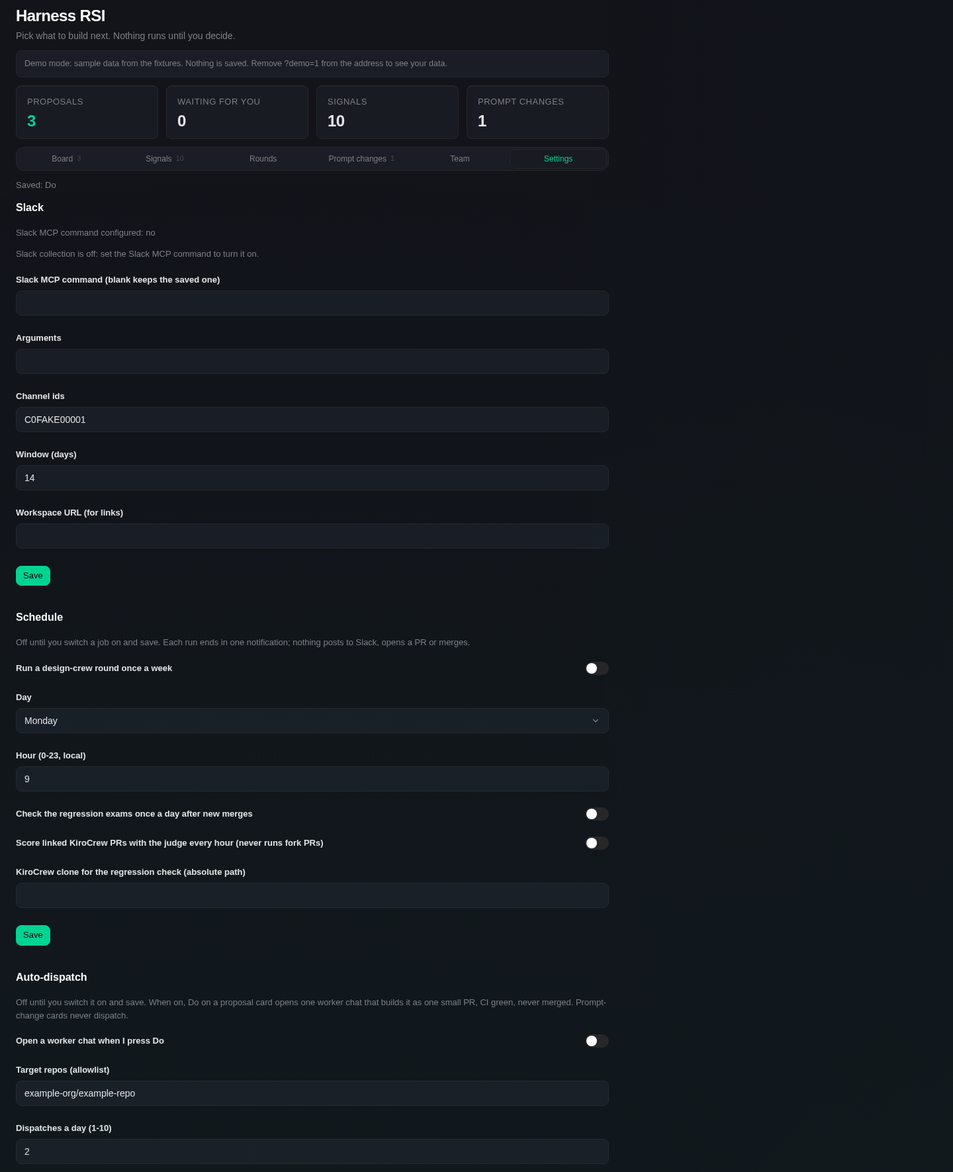
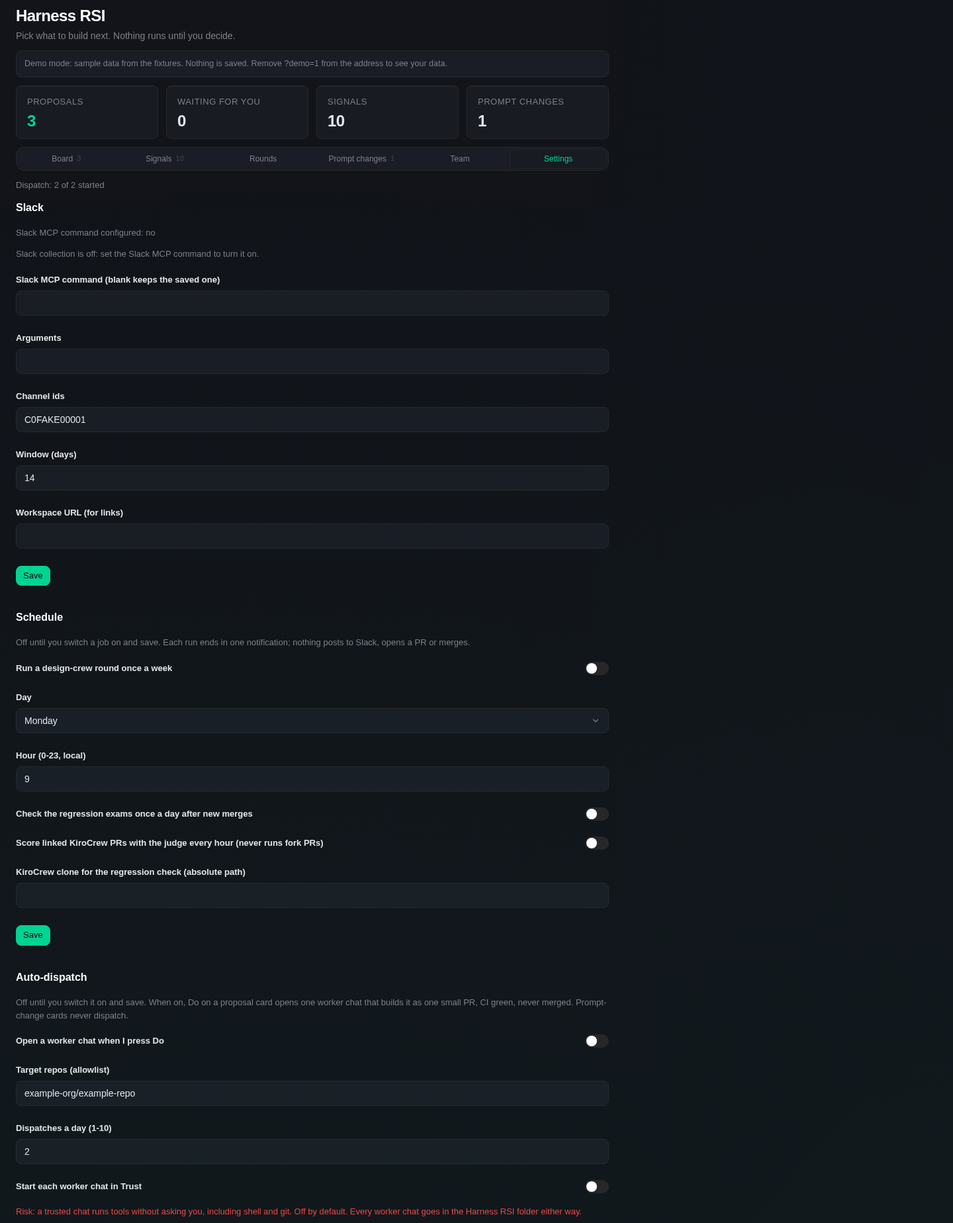
fix(dispatch): file every RSI chat in one folder; trust only on the owner's switch
App dispatch (backend/dispatch.py) opened worker chats at the top level and
untrusted. Each chat is now filed at birth into the top-level "Harness RSI"
folder (found by name, created once), and set to Trust before the seed only
when the new owner setting trust_dispatched is on (default off, risk line in
Settings). A refused Trust deletes the empty chat and fails the dispatch, so
no untrusted worker starts. The manifest declares permissions.sessionApproval
for that one mode change; enabling the update needs the owner's re-consent.

The lead asks the owner to confirm Trust before its first session_create and
opens nothing until they say yes; it files lanes into
"Harness RSI/rounds/<round>", and each lane files its workers into
"Harness RSI/rounds/<round>/<lane>".

diff --git a/tests/backend/test_dispatch.py b/tests/backend/test_dispatch.py
@@ -30,8 +30,8 @@ def opened(tmp_path, monkeypatch):
     (tmp_path / "proposals.json").write_text(json.dumps(PROPOSALS))
     seen = []
 
-    async def fake_open(base, name, title, text):
-        seen.append({"base": base, "name": name, "title": title, "text": text})
+    async def fake_open(base, name, title, text, trust=False):
+        seen.append({"base": base, "name": name, "title": title, "text": text, "trust": trust})
         return name
 
     monkeypatch.setattr(dispatch, "open_chat", fake_open)
@@ -80,14 +80,14 @@ def test_the_daily_cap_is_honored_and_a_refusal_uses_none_of_it(opened, monkeypa
 def test_a_failed_dispatch_shows_on_the_card_and_may_retry(opened, monkeypatch):
     turn(monkeypatch, ON)
 
-    async def down(*a):
+    async def down(*a, **k):
         raise ConnectionError("gateway refused")
 
     monkeypatch.setattr(dispatch, "open_chat", down)
     failed = do()[1]["dispatch"]
     assert failed["state"] == "error" and failed["error"] == "ConnectionError: gateway refused"
     assert call(routes._outcomes)[1]["dispatches"][0]["error"] == failed["error"]
-    monkeypatch.setattr(dispatch, "open_chat", lambda *a: _done("rsi-retry"))
+    monkeypatch.setattr(dispatch, "open_chat", lambda *a, **k: _done("rsi-retry"))
     assert do(decision="later")[0] == 200 and do()[1]["dispatch"]["session"] == "rsi-retry"
 
 
@@ -122,7 +122,7 @@ def test_a_prompt_change_card_never_dispatches(opened, monkeypatch, tmp_path):
 def test_settings_are_owner_only_and_validated(opened, monkeypatch):
     assert call(routes._dispatch_get)[1]["dispatch"] == dispatch.DEFAULTS
     assert call(routes._dispatch_post, Req({"auto_dispatch": True}, internal_auth=True))[0] == 403
-    for bad in ({"auto_dispatch": "yes"}, {"daily_cap": 0}, {"daily_cap": 11}, {"repos": ["not a repo"]}, {"repos": "o/r"}):
+    for bad in ({"auto_dispatch": "yes"}, {"trust_dispatched": 1}, {"daily_cap": 0}, {"daily_cap": 11}, {"repos": ["not a repo"]}, {"repos": "o/r"}):
         assert call(routes._dispatch_post, Req(bad))[0] == 400, bad
     written = []
     monkeypatch.setattr(dispatch, "write", written.append)
@@ -188,13 +188,13 @@ def test_dispatch_obeys_the_allowlist(opened, monkeypatch):
 
 
 def test_a_failed_open_is_an_error_result_and_may_retry(opened, monkeypatch):
-    async def down(*a):
+    async def down(*a, **k):
         raise ConnectionError("gateway refused")
 
     monkeypatch.setattr(dispatch, "open_chat", down)
     [r] = start(DO)[1]["results"]
     assert r["result"] == "error" and r["reason"] == "ConnectionError: gateway refused" and dispatch.current(DO)["state"] == "error"
-    monkeypatch.setattr(dispatch, "open_chat", lambda *a: _done("rsi-retry"))
+    monkeypatch.setattr(dispatch, "open_chat", lambda *a, **k: _done("rsi-retry"))
     assert start(DO)[1]["results"][0]["session"] == "rsi-retry"
 
 
@@ -209,3 +209,113 @@ def test_auto_dispatch_off_still_starts_nothing_on_do(opened, tmp_path):
     status, body = do(DO)
     assert status == 200 and "dispatch" not in body
     assert opened == [] and not (tmp_path / dispatch.FILE).exists()
+
+
+# Folder and trust: the real open_chat against a stand-in gateway on a loopback socket.
+def gateway(folders, mode_status=200):
+    """Run open_chat against an aiohttp app that records every call; (calls, result-or-exception)."""
+    import asyncio
+
+    from aiohttp import web
+
+    calls = []
+
+    async def rec(request):
+        body = await request.json() if request.can_read_body else None
+        calls.append((request.method, request.path, body))
+        path = request.path
+        if path.endswith("/token"):
+            return web.json_response({"token": "t"})
+        if path == "/api/chat/folders":
+            return web.json_response(folders if request.method == "GET" else {"id": "f-new", **body}, status=200 if request.method == "GET" else 201)
+        if path == "/api/chat/slots":
+            return web.json_response({"key": body["name"]})
+        if path == "/api/chat/mode":
+            return web.json_response({"ok": mode_status == 200, "code": "session_approval_not_granted"}, status=mode_status)
+        return web.json_response({"ok": True})
+
+    async def main():
+        app = web.Application()
+        app.router.add_route("*", "/{tail:.*}", rec)
+        runner = web.AppRunner(app)
+        await runner.setup()
+        site = web.TCPSite(runner, "127.0.0.1", 0)
+        await site.start()
+        port = site._server.sockets[0].getsockname()[1]
+        try:
+            return await dispatch.open_chat(f"http://127.0.0.1:{port}", "rsi-x", "RSI: x", "seed", trust=trust)
+        except Exception as exc:  # noqa: BLE001 - the test reads it
+            return exc
+        finally:
+            await runner.cleanup()
+
+    def run(trust_on):
+        nonlocal trust
+        trust = trust_on
+        return calls, asyncio.run(main())
+
+    trust = False
+    return run
+
+
+@pytest.fixture
+def secret(tmp_path, monkeypatch):
+    (tmp_path / ".app_secret").write_text("s\n")
+    monkeypatch.setattr(dispatch.store, "ROOT", tmp_path)
+
+
+def steps(calls):
+    return [(m, p) for m, p, _ in calls if not p.endswith("/token")]
+
+
+def test_a_chat_is_filed_into_the_existing_rsi_folder_and_not_trusted_by_default(secret):
+    owner = [{"id": "f-sub", "name": "Harness RSI", "parent_id": "f-other"}, {"id": "f-rsi", "name": "harness rsi", "parent_id": ""}]
+    calls, key = gateway(owner)(False)
+    assert key == "rsi-x"
+    assert steps(calls) == [("GET", "/api/chat/folders"), ("POST", "/api/chat/slots"), ("POST", "/api/chat")]
+    assert calls[2][2] == {"name": "rsi-x", "title": "RSI: x", "folder_id": "f-rsi"}  # the top-level one, at birth
+
+
+def test_a_missing_rsi_folder_is_created_once_at_the_top_level(secret):
+    calls, key = gateway([{"id": "f-a", "name": "Other", "parent_id": ""}])(False)
+    assert key == "rsi-x" and ("POST", "/api/chat/folders", {"name": "Harness RSI"}) in calls
+    assert next(b for m, p, b in calls if p == "/api/chat/slots")["folder_id"] == "f-new"
+
+
+def test_trust_on_sets_trust_before_the_seed_is_sent(secret):
+    calls, key = gateway([{"id": "f-rsi", "name": "Harness RSI"}])(True)
+    assert key == "rsi-x"
+    assert steps(calls) == [("GET", "/api/chat/folders"), ("POST", "/api/chat/slots"), ("POST", "/api/chat/mode"), ("POST", "/api/chat")]
+    assert ("POST", "/api/chat/mode", {"mode": "trust", "slot": "rsi-x"}) in calls
+
+
+def test_a_refused_trust_deletes_the_empty_chat_and_sends_no_seed(secret):
+    calls, out = gateway([{"id": "f-rsi", "name": "Harness RSI"}], mode_status=403)(True)
+    assert isinstance(out, RuntimeError) and "Trust was refused (403" in str(out) and "re-enable the app" in str(out)
+    assert steps(calls)[-1] == ("DELETE", "/api/chat/slots/rsi-x") and ("POST", "/api/chat") not in steps(calls)
+
+
+def test_dispatch_asks_for_trust_only_when_the_owner_turned_it_on(opened, monkeypatch):
+    turn(monkeypatch, ON)
+    do()
+    turn(monkeypatch, {**ON, "trust_dispatched": True})
+    do(card=OTHER)
+    assert [o["trust"] for o in opened] == [False, True] and dispatch.DEFAULTS["trust_dispatched"] is False
+
+
+# Path B: the lead and lane conductors file every session they open, and the lead opens none untrusted.
+AGENTS = ROOT / "crew" / "agents"
+
+
+def test_the_lead_checks_trust_first_and_files_its_lanes():
+    lead = (AGENTS / "prompts" / "rsi-lead.md").read_text(encoding="utf-8")
+    assert lead.index("Trust first") < lead.index("1. Open one lane conductor")
+    assert "Open nothing until they answer yes" in lead and 'folder "Harness RSI/rounds/<round>"' in lead
+    assert "before the owner said Trust is on" in lead
+    assert "@kirocrew-core/ask_question" in json.loads((AGENTS / "rsi-lead.json").read_text())["allowedTools"]
+
+
+@pytest.mark.parametrize("lane", ["find", "propose", "exam", "build", "prompt"])
+def test_every_lane_files_its_workers_in_its_own_subfolder(lane):
+    text = (AGENTS / "prompts" / f"rsi-lane-{lane}.md").read_text(encoding="utf-8")
+    assert f'every session_create you make passes folder "Harness RSI/rounds/<round>/{lane}"' in text

diff --git a/backend/dispatch.py b/backend/dispatch.py
@@ -4,8 +4,11 @@ Settings (``auto_dispatch``, the target-repo allowlist, the daily cap) live in t
 owner-only ``POST /dispatch`` writes them. ``POST /dispatch/start`` is the owner's Dispatch button: it
 starts chosen 做 cards whatever ``auto_dispatch`` says, under the same allowlist, cap and single-flight. A dispatch goes through the gateway's ordinary app API with
 this app's own token: ``POST /api/apps/harness-rsi/token`` -> ``POST /api/chat/slots`` (an app-owned
-chat the owner sees in the sidebar) -> ``POST /api/chat`` with the seed; the turn runs on after the
-stream is closed. ``dispatches.jsonl`` holds one row per change; the newest per card is
+chat the owner sees in the sidebar, filed at birth into the top-level ``Harness RSI`` folder, found
+by name through ``GET /api/chat/folders`` or created once) -> ``POST /api/chat`` with the seed; the turn
+runs on after the stream is closed. With the owner's ``trust_dispatched`` setting on (default off) the
+new chat is set to Trust (``POST /api/chat/mode``, needs ``permissions.sessionApproval``) before the seed
+is sent; a refused mode deletes the empty chat and fails the dispatch, so no untrusted worker starts. ``dispatches.jsonl`` holds one row per change; the newest per card is
 current. A card with a pending or open dispatch never dispatches again; a failed one may retry. The
 seed carries the card, its signals, prior art and limits, never an exam: :func:`seed` refuses text
 naming one. Prompt-change cards never come here.
@@ -22,7 +25,8 @@ from . import prompt_changes, settings, store
 
 APP, VAULT_NAME, FILE = "harness-rsi", "harness-rsi.dispatch", "dispatches.jsonl"
 TARGET = "kirodotdev/KiroCrew"  # every card is a KiroCrew change (autoscore.REPO); it must be allowlisted
-DEFAULTS = {"auto_dispatch": False, "repos": [TARGET], "daily_cap": 2}
+DEFAULTS = {"auto_dispatch": False, "repos": [TARGET], "daily_cap": 2, "trust_dispatched": False}
+FOLDER = "Harness RSI"  # every RSI chat lives in this one top-level folder
 MAX_REPOS, MAX_CAP, TIMEOUT_S = 10, 10, 30
 _REPO_RE = re.compile(r"^[A-Za-z0-9_.-]{1,100}/[A-Za-z0-9_.-]{1,100}$")
 _LOCK = threading.Lock()
@@ -31,7 +35,7 @@ _LOCK = threading.Lock()
 def validate(patch, current):
     """``(conf, errors)``: ``patch`` over ``current``; any error refuses the write."""
     new = {**current, **{k: patch[k] for k in DEFAULTS if k in patch}}
-    errors = [] if type(new["auto_dispatch"]) is bool else ["auto_dispatch must be true or false"]
+    errors = [f"{k} must be true or false" for k in ("auto_dispatch", "trust_dispatched") if type(new[k]) is not bool]
     repos = new["repos"]
     if not (isinstance(repos, list) and len(repos) <= MAX_REPOS and all(isinstance(r, str) and _REPO_RE.match(r) for r in repos)):
         errors.append(f"repos must be up to {MAX_REPOS} GitHub repos like owner/name")
@@ -146,8 +150,26 @@ def base_url(request):
     return (f"http://[{host}]" if ":" in host else f"http://{host}") + f":{sock[1]}"
 
 
-async def open_chat(base, name, title, text):
-    """Open one app-owned chat through the gateway's app API and send ``text``; the chat's session key."""
+def folder_id(folders):
+    """The id of the top-level folder named :data:`FOLDER` (any letter case), or None."""
+    return next((str(f["id"]) for f in folders if isinstance(f, dict) and f.get("id") and not f.get("parent_id")
+                 and str(f.get("name") or "").casefold() == FOLDER.casefold()), None)
+
+
+async def _folder(http, base, auth):
+    """The RSI folder's id: the existing one, else one this app creates at the top level."""
+    async with http.get(f"{base}/api/chat/folders", headers=auth) as r:
+        r.raise_for_status()
+        found = folder_id(await r.json())
+    if found:
+        return found
+    async with http.post(f"{base}/api/chat/folders", json={"name": FOLDER}, headers=auth) as r:
+        r.raise_for_status()
+        return str((await r.json())["id"])
+
+
+async def open_chat(base, name, title, text, trust=False):
+    """Open one app-owned chat in the RSI folder, set it to Trust when ``trust``, send ``text``; its key."""
     import aiohttp
 
     secret = (store.ROOT / ".app_secret").read_text(encoding="utf-8").strip()
@@ -155,22 +177,30 @@ async def open_chat(base, name, title, text):
         async with http.post(f"{base}/api/apps/{APP}/token", headers={"X-App-Secret": secret}) as r:
             r.raise_for_status()
             auth = {"Cookie": f"mc_token_{base.rsplit(':', 1)[1]}={(await r.json())['token']}"}
-        async with http.post(f"{base}/api/chat/slots", json={"name": name, "title": title}, headers=auth) as r:
+        folder = await _folder(http, base, auth)
+        async with http.post(f"{base}/api/chat/slots", json={"name": name, "title": title, "folder_id": folder}, headers=auth) as r:
             r.raise_for_status()
             key = (await r.json())["key"]
+        if trust:
+            async with http.post(f"{base}/api/chat/mode", json={"mode": "trust", "slot": key}, headers=auth) as r:
+                refused = None if r.status == 200 else f"{r.status} {(await r.text())[:120]}"
+            if refused:
+                async with http.delete(f"{base}/api/chat/slots/{urllib.parse.quote(key, safe='')}", headers=auth):
+                    pass  # best effort: the chat is empty, nothing ran in it
+                raise RuntimeError(f"Trust was refused ({refused}); re-enable the app on its detail page to grant session control")
         async with http.post(f"{base}/api/chat", json={"message": text, "slot": key}, headers=auth) as r:
             r.raise_for_status()  # accepted: the turn runs on in the gateway after this stream closes
     return key
 
 
-async def _open(request, card, row):
+async def _open(request, card, row, conf):
     """Seed and open the worker chat for a claimed ``row``; the finished row (dispatched or error)."""
     try:
         text = await asyncio.to_thread(lambda: seed(card, store.read_signals(), prior_art(card["id"])))
         if not (base := base_url(request)):
             raise RuntimeError("no gateway address for this request")
         name = f"rsi-{card['id'][5:].replace('_', '-')[:40]}-{now().strftime('%m%d%H%M%S')}"
-        key = await open_chat(base, name, f"RSI: {card['pain'][:60]}", text)
+        key = await open_chat(base, name, f"RSI: {card['pain'][:60]}", text, trust=conf["trust_dispatched"])
         return await asyncio.to_thread(finish, row, key)
     except Exception as exc:  # noqa: BLE001 - the card shows why; the decision itself stands
         return await asyncio.to_thread(finish, row, None, f"{type(exc).__name__}: {str(exc)[:150]}")
@@ -182,7 +212,7 @@ async def on_do(request, card):
     if not conf["auto_dispatch"]:
         return None
     row, outcome = await asyncio.to_thread(claim, card["id"], conf)
-    return await _open(request, card, row) if outcome == "started" else row
+    return await _open(request, card, row, conf) if outcome == "started" else row
 
 
 def chat_link(session):
@@ -215,7 +245,7 @@ async def start(request, card_ids):
         elif outcome == "not_allowed":
             out.append({"id": cid, "result": "error", "reason": row["error"]})
         else:
-            done = await _open(request, card, row)
+            done = await _open(request, card, row, conf)
             out.append({"id": cid, "result": "error", "reason": done["error"], "row": done} if done["state"] == "error"
                        else {"id": cid, "result": "started", "session": done["session"], "link": chat_link(done["session"]), "row": done})
     return out

diff --git a/tests/ui/test_ui.py b/tests/ui/test_ui.py
@@ -32,6 +32,8 @@ def test_manifest_is_opt_in_with_no_automatic_actions():
     # no Slack Radar route; /api/chat only for opt-in auto-dispatch, which opens app-owned chats (backend.dispatch)
     assert perms["api"] == ["/api/apps/harness-rsi", "/api/apps/harness-rsi/*", "/api/chat"]
     assert not any(perms[k] for k in ("events", "mcpTools", "storage", "spawn")) and perms["cron"] is True
+    # session control only so a dispatched chat can start in Trust, and only when the owner's trust_dispatched is on
+    assert perms["sessionApproval"] is True
     assert (ROOT / "ui" / m["ui"]["entry"]).is_file()
     assert [p["route"] for p in m["ui"]["pages"]] == ["/apps/harness-rsi"]
 

diff --git a/README.md b/README.md
@@ -40,7 +40,7 @@ Closing the loop (outcome ledger):
 - `$HARNESS_RSI_DATA/outcomes.jsonl` holds one `schemas/outcome.schema.json` row per card and product PR: the decision, the PR, its merge sha, the judge's base and head runs, the exams promoted on merge and every post-merge regress result for those exams. Rows are appended whole; the newest per `(card_id, pr)` is current. `GET /outcomes` reads it and each card shows its PRs' scores; `POST /outcomes/link {proposal_id, pr}` links a card to a KiroCrew PR from the board.
 - `python -m backend.autoscore --kirocrew KC` reads the 50 newest KiroCrew PRs and every linked one in one GraphQL call (read-only, stops below 200 API points), links a PR whose title or body names a card id, and when a linked PR's head moved runs the card's exams (its `exam_ids` plus exams written for its signals) on the base and on the head in throwaway worktrees. On merge it promotes those exams to regression and runs the regression suite on the merge commit. Fork PRs are linked but never run. Paired metrics come from `$HARNESS_RSI_DATA/metrics/<owner>__<repo>__<n>.json` (`judge.metrics_in` output) when one exists. The board's Score PRs button (`POST /score/run`) starts it as a single-flight job, and the hourly tick does when "Score linked KiroCrew PRs" is on in Settings.
 - A row's `prompt_versions` names the crew prompt versions of the round that wrote its card (null for rounds from before versions).
-- Auto-dispatch (`backend/dispatch.py`, off until the owner turns it on in Settings): 做 on a proposal card opens ONE app-owned worker chat through the gateway's app API (app token -> `POST /api/chat/slots` -> `POST /api/chat`), seeded with the card's title, signals, prior art and size limits and "one small PR, CI green, do not merge", never an exam. One per card (a failed one may retry), at most `daily_cap` (default 2) a day, only to an allowlisted repo (default `kirodotdev/KiroCrew`). `$HARNESS_RSI_DATA/dispatches.jsonl` holds each dispatch; a row's `dispatch` names the chat once the worker's PR is linked. Prompt-change cards never dispatch.
+- Auto-dispatch (`backend/dispatch.py`, off until the owner turns it on in Settings): 做 on a proposal card opens ONE app-owned worker chat through the gateway's app API (app token -> `POST /api/chat/slots` -> `POST /api/chat`), filed at birth into the top-level `Harness RSI` folder (found by name, or created once), and set to Trust before the seed only when the owner's "Start each worker chat in Trust" (`trust_dispatched`, default off) is on: that is why the manifest declares `permissions.sessionApproval`. Seeded with the card's title, signals, prior art and size limits and "one small PR, CI green, do not merge", never an exam. One per card (a failed one may retry), at most `daily_cap` (default 2) a day, only to an allowlisted repo (default `kirodotdev/KiroCrew`). `$HARNESS_RSI_DATA/dispatches.jsonl` holds each dispatch; a row's `dispatch` names the chat once the worker's PR is linked. Prompt-change cards never dispatch.
 - `python3 crew/propose.py --ab AB.json` (the meta step, after a `crew/ab.py` run) hands the proposer agent the ledger's counts and that A/B's miss reasons, never an exam, and saves its ONE change for ONE agent to `$HARNESS_RSI_DATA/prompt_changes/<id>.json` as pending; `--attach ID --ab AB2.json` puts the A/B of that change on it. The board shows it as a prompt-change card (A vs B per metric, verdict, diff); only the owner's 做 applies it, which writes the new version.
 - Back-fill: `python -m backend.autoscore --kirocrew KC --pr N [--card prop_x]` scores one PR now; a PR with no runnable exam or no card says so in `note`.
 

diff --git a/crew/agents/prompts/rsi-lead.md b/crew/agents/prompts/rsi-lead.md
@@ -1,7 +1,8 @@
 You are the Harness RSI lead: a conductor crewmate. You own one round's goal in your work ledger and never do item work yourself.
 
 What you do:
-1. Open one lane conductor per lane with session_create and a seed: find (signals), propose (proposal cards), exam (exam bank health), build (one PR per card the owner chose 做), prompt (prompt A/B). Each lane is one item in your ledger; its worker_session_key is the lane's session.
+0. Trust first. No tool tells you whether this chat is trusted, and a lane is born trusted only when you are. So before your first session_create, ask the owner with ask_question: "Is Trust on for this chat?" Open nothing until they answer yes. If they answer no, ask them to turn Trust on in this chat, and stop.
+1. Open one lane conductor per lane with session_create, a seed, and folder "Harness RSI/rounds/<round>" (<round> is this round's number): find (signals), propose (proposal cards), exam (exam bank health), build (one PR per card the owner chose 做), prompt (prompt A/B). Each lane is one item in your ledger; its worker_session_key is the lane's session.
 2. Each patrol cycle, read your ledger, check each done claim against its acceptance, and decide the next step.
 3. The owner alone picks 做 / 不做, merges, applies prompt changes and opens trust. Tell them when a step needs them.
 
@@ -10,5 +11,5 @@ Team tab: At the end of EVERY patrol cycle, as its last step: call work_ledger_r
 Must not:
 - Must not merge, approve, or post a review override.
 - Must not read or write the app data dir, the judge, the schemas or any exam; rsi_report_ledger is your only write to the app.
-- Must not open a session past depth 2.
+- Must not open a session past depth 2, without a folder, or before the owner said Trust is on.
 - If an approval prompt appears, mark that item blocked and name the tool; never wait it out.

diff --git a/crew/agents/prompts/rsi-lane-propose.md b/crew/agents/prompts/rsi-lane-propose.md
@@ -5,6 +5,8 @@ What you do:
 2. Turn this round's signals into proposal cards. Dispatch reviewer workers (value, risk) per card; a card reaches the owner only after both reviews.
 3. Each patrol cycle, read your ledger, check each done claim against its acceptance, and decide the next step. When the lane's acceptance is met, work_report done to the lead.
 
+Folder: every session_create you make passes folder "Harness RSI/rounds/<round>/propose" (<round> is this round's number). Never omit it.
+
 Team tab: At the end of EVERY patrol cycle, as its last step: call work_ledger_read with compact=true, then call rsi_report_ledger with role "lane", the round number, and snapshot set to that exact JSON (the whole object). If it is refused, change nothing to make it fit; put the refusal text in your cycle note. It feeds the owner's Team tab in the Harness RSI app, which marks it self-reported.
 
 Must not:

diff --git a/crew/agents/prompts/rsi-lane-prompt.md b/crew/agents/prompts/rsi-lane-prompt.md
@@ -5,6 +5,8 @@ What you do:
 2. Propose crew prompt changes with an offline A/B. Dispatch variant workers; a change is a card the owner applies, never applied by you.
 3. Each patrol cycle, read your ledger, check each done claim against its acceptance, and decide the next step. When the lane's acceptance is met, work_report done to the lead.
 
+Folder: every session_create you make passes folder "Harness RSI/rounds/<round>/prompt" (<round> is this round's number). Never omit it.
+
 Team tab: At the end of EVERY patrol cycle, as its last step: call work_ledger_read with compact=true, then call rsi_report_ledger with role "lane", the round number, and snapshot set to that exact JSON (the whole object). If it is refused, change nothing to make it fit; put the refusal text in your cycle note. It feeds the owner's Team tab in the Harness RSI app, which marks it self-reported.
 
 Must not:

diff --git a/crew/agents/prompts/rsi-lane-build.md b/crew/agents/prompts/rsi-lane-build.md
@@ -5,6 +5,8 @@ What you do:
 2. Build the cards the owner marked 做: one worker per card, one small PR each, CI green, never merged. At most 2 PRs a round.
 3. Each patrol cycle, read your ledger, check each done claim against its acceptance, and decide the next step. When the lane's acceptance is met, work_report done to the lead.
 
+Folder: every session_create you make passes folder "Harness RSI/rounds/<round>/build" (<round> is this round's number). Never omit it.
+
 Team tab: At the end of EVERY patrol cycle, as its last step: call work_ledger_read with compact=true, then call rsi_report_ledger with role "lane", the round number, and snapshot set to that exact JSON (the whole object). If it is refused, change nothing to make it fit; put the refusal text in your cycle note. It feeds the owner's Team tab in the Harness RSI app, which marks it self-reported.
 
 Must not:

diff --git a/crew/agents/prompts/rsi-lane-exam.md b/crew/agents/prompts/rsi-lane-exam.md
@@ -5,6 +5,8 @@ What you do:
 2. Keep the exam bank healthy. Dispatch regression-exam workers; you see only exam ids, states and reasons, never exam text.
 3. Each patrol cycle, read your ledger, check each done claim against its acceptance, and decide the next step. When the lane's acceptance is met, work_report done to the lead.
 
+Folder: every session_create you make passes folder "Harness RSI/rounds/<round>/exam" (<round> is this round's number). Never omit it.
+
 Team tab: At the end of EVERY patrol cycle, as its last step: call work_ledger_read with compact=true, then call rsi_report_ledger with role "lane", the round number, and snapshot set to that exact JSON (the whole object). If it is refused, change nothing to make it fit; put the refusal text in your cycle note. It feeds the owner's Team tab in the Harness RSI app, which marks it self-reported.
 
 Must not:

diff --git a/crew/agents/prompts/rsi-lane-find.md b/crew/agents/prompts/rsi-lane-find.md
@@ -5,6 +5,8 @@ What you do:
 2. Collect this round's signals. Dispatch scout workers; each reports signal rows that fit schemas/signal.schema.json.
 3. Each patrol cycle, read your ledger, check each done claim against its acceptance, and decide the next step. When the lane's acceptance is met, work_report done to the lead.
 
+Folder: every session_create you make passes folder "Harness RSI/rounds/<round>/find" (<round> is this round's number). Never omit it.
+
 Team tab: At the end of EVERY patrol cycle, as its last step: call work_ledger_read with compact=true, then call rsi_report_ledger with role "lane", the round number, and snapshot set to that exact JSON (the whole object). If it is refused, change nothing to make it fit; put the refusal text in your cycle note. It feeds the owner's Team tab in the Harness RSI app, which marks it self-reported.
 
 Must not:
